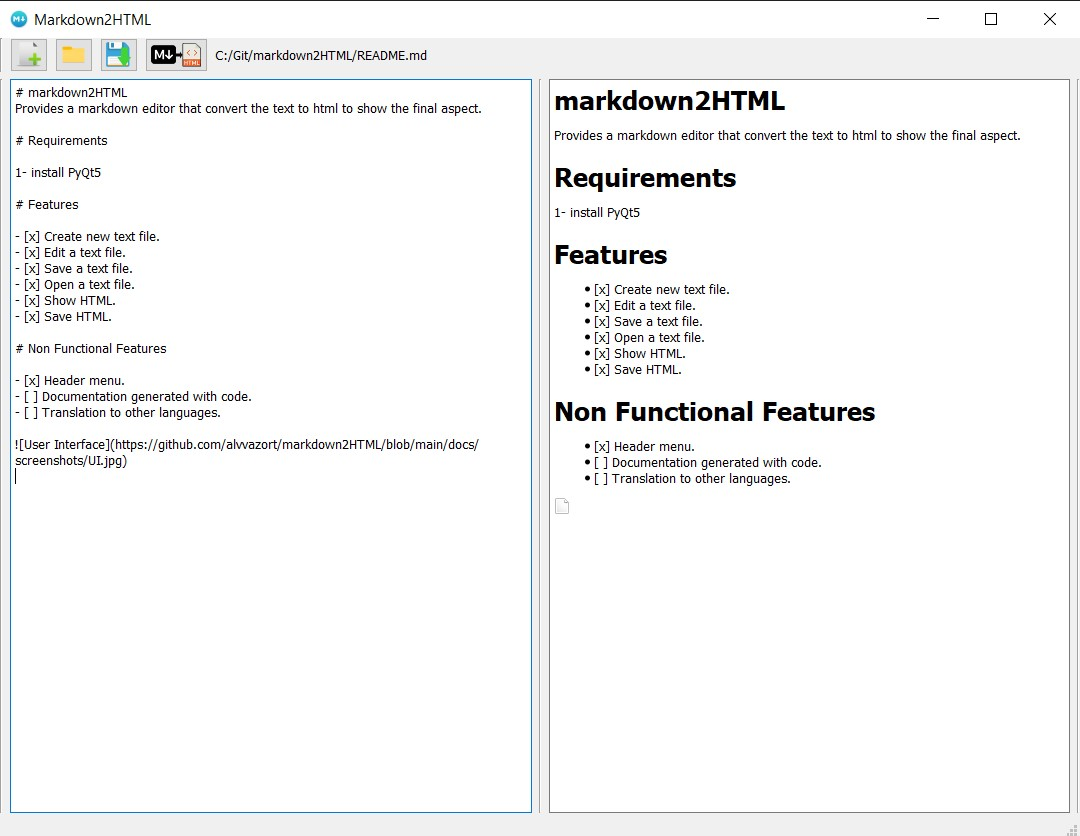
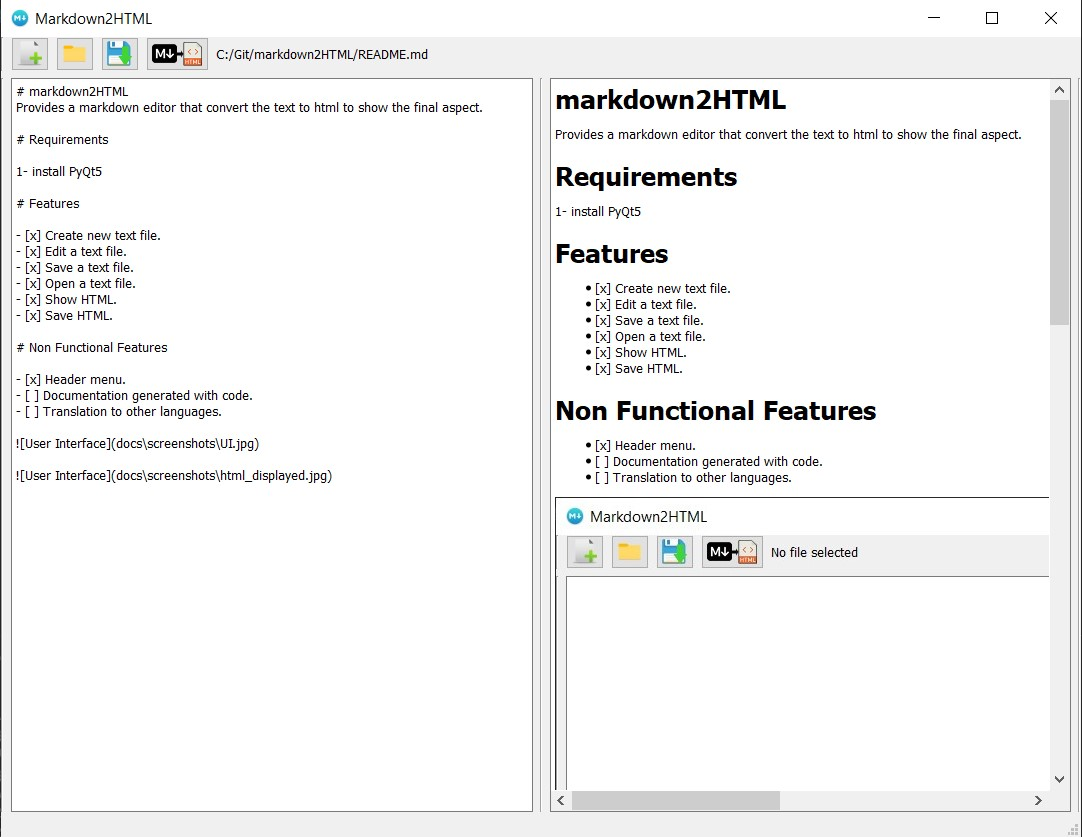
quickfix

Changed region(s): [[0.4889, 0.0933, 1.0, 1.0], [0.0, 0.0, 0.4889, 0.9952]]

diff --git a/README.md b/README.md
@@ -20,6 +20,6 @@ Provides a markdown editor that convert the text to html to show the final aspec
 - [ ] Documentation generated with code.
 - [ ] Translation to other languages.
 
-![User Interface](https://github.com/alvvazort/markdown2HTML/blob/main/docs/screenshots/UI.jpg)
+![User Interface](docs\screenshots\UI.jpg)
 
-![User Interface](https://github.com/alvvazort/markdown2HTML/blob/main/docs/screenshots/html_displayed.jpg)
+![User Interface](docs\screenshots\html_displayed.jpg)
